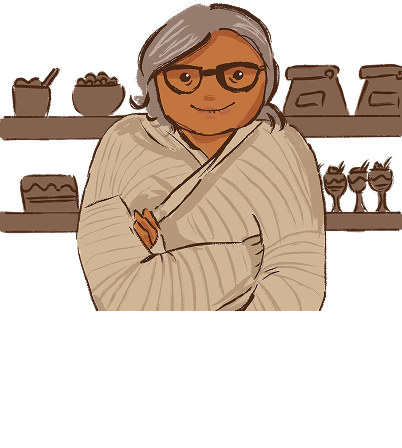
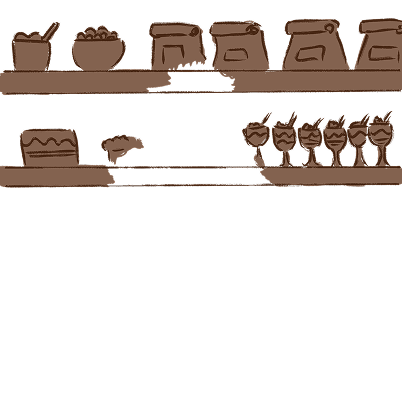
New shelf art, restore spec 402x402 placement

diff --git a/src/app/page.tsx b/src/app/page.tsx
@@ -246,7 +246,7 @@ function Bakeria() {
 
 function Shelves() {
   return (
-    <SafeImg src="/grandma/shelves.png" style={{ position: "absolute", left: 0, top: 264.63, width: 402, height: 448, objectFit: "contain", objectPosition: "top", pointerEvents: "none" }}
+    <SafeImg src="/grandma/shelves.png" style={{ position: "absolute", left: 0, top: 264.63, width: 402, height: 402, objectFit: "cover", pointerEvents: "none" }}
       fallback={
         <div aria-hidden style={{ position: "absolute", left: 0, top: 264.63, width: 402, height: 402, pointerEvents: "none" }}>
           {[0, 1, 2].map((i) => (
